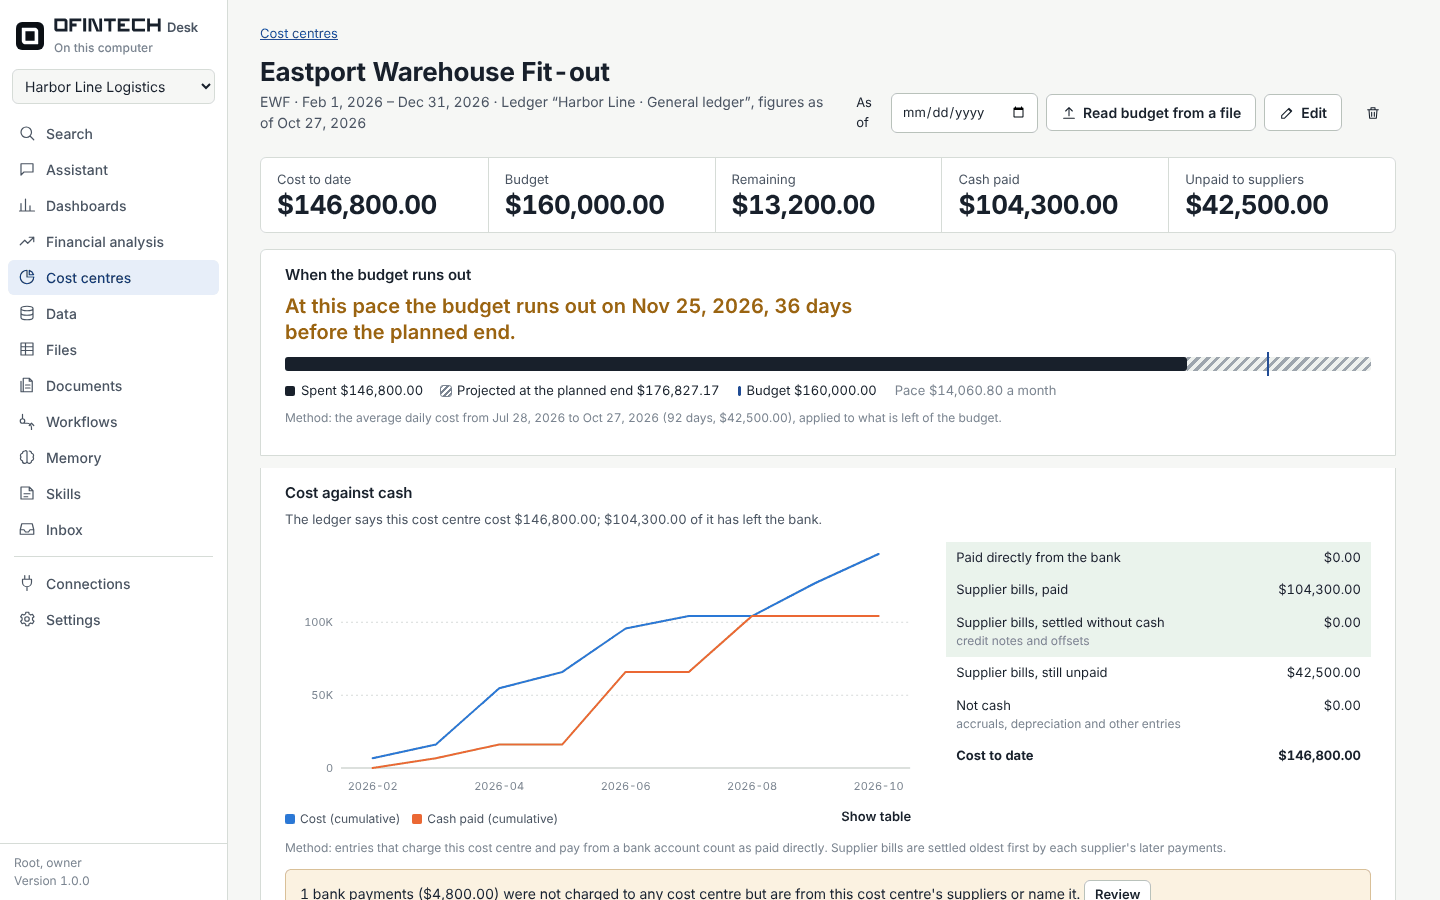
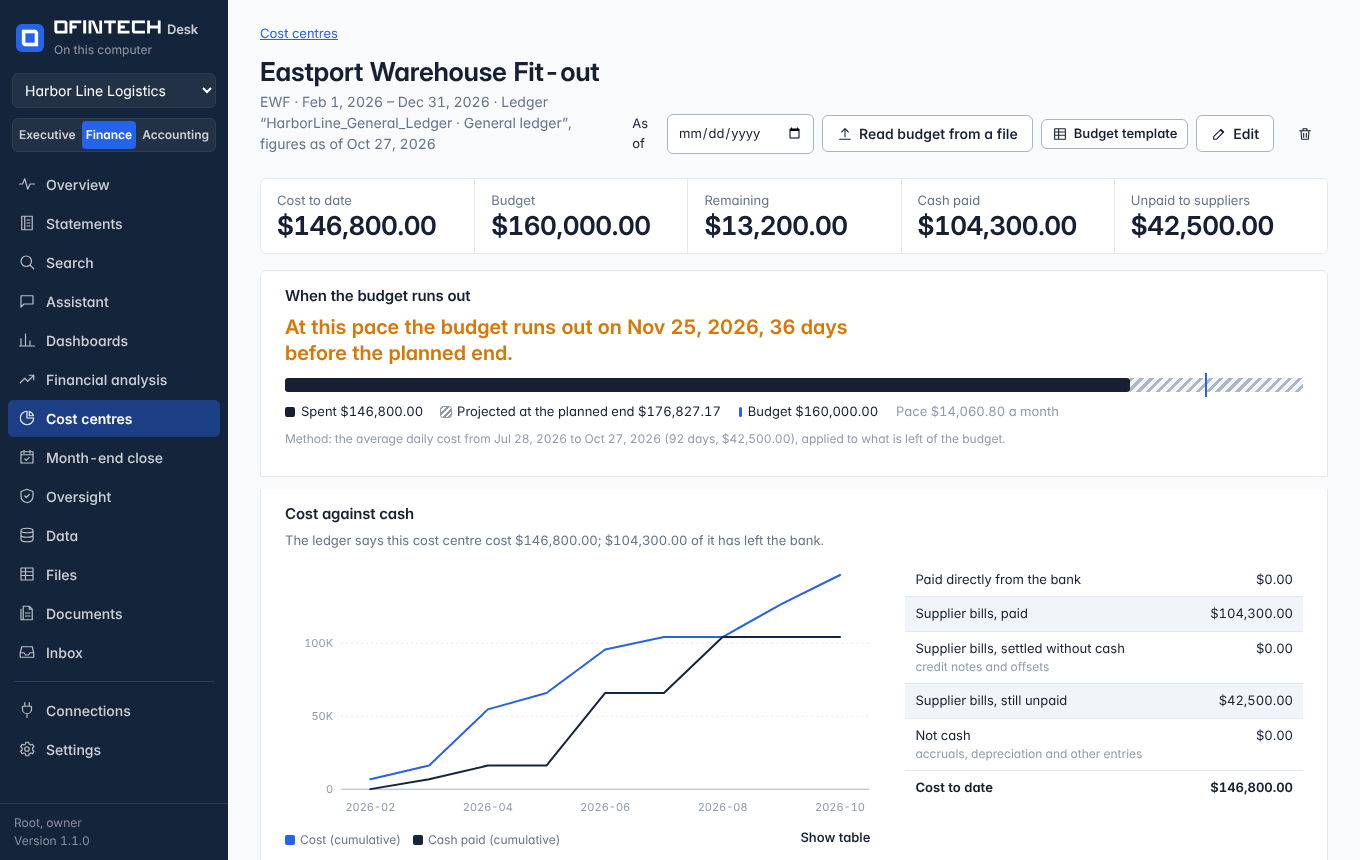
Refresh the website's product screenshots in the OfinTech identity
Every screenshot on ofintech.ai now shows the navy-and-blue interface: the executive overview of Harbor Line
Logistics opens the page (health 78/100, the four figures with their notes, the trend and the cash balance), and
the KPI scorecard, the FY2027 plan, the Eastport Warehouse Fit-out cost centre, October's close with the demo bank
statement, the ledger upload, webhooks and the Arabic workflows page follow. PNGs quantised to 256 colours, 44–68 KB
each; alt text and captions describe what is on them. Checked at 1440 and 390 pixels: nothing scrolls sideways.

diff --git a/landing/site/index.html b/landing/site/index.html
@@ -7,7 +7,7 @@
 <meta name="description" content="OfinTech Desk is an open-source AI workspace for CFOs, accountants and executive managers. 35 KPIs on your targets, forecasts you approve, cost centres from the general ledger, webhooks, and every figure traced to its source. Sign in or create your account.">
 <meta property="og:title" content="OfinTech Desk">
 <meta property="og:description" content="The AI workspace for finance teams. 35 KPIs, forecasts, cost centres, approvals: every figure traced to its source.">
-<meta property="og:image" content="https://ofintech.ai/assets/workbook-evidence.png">
+<meta property="og:image" content="https://ofintech.ai/assets/executive-overview.png">
 <meta property="og:type" content="website">
 <meta property="og:url" content="https://ofintech.ai/">
 <link rel="canonical" href="https://ofintech.ai/">
@@ -168,8 +168,8 @@ footer .cols>div{display:flex;flex-direction:column;gap:8px}
 <p class="small muted">Runs on your own server or computer. Desktop app for macOS, Windows and Linux. English, Arabic, Spanish and French. Bring any model, cloud or local.</p>
 </div>
 <figure style="display:flex;flex-direction:column;gap:12px">
-<img width="1360" height="860" src="assets/workbook-evidence.png" alt="A workbook in OfinTech Desk: selecting the March freight revenue figure shows its source dataset, the underlying row and a reviewer's finding" class="shot">
-<figcaption>Select any figure: its source, the rows behind it and the reviewer's notes appear beside it.</figcaption>
+<img width="1360" height="860" src="assets/executive-overview.png" alt="The executive overview for Harbor Line Logistics, the demo company: financial health 78 out of 100, stable; revenue 197,947.81 up 9.4% on last year; expenses, net profit and cash with a note on each; the twelve-month trend and the cash balance" class="shot">
+<figcaption>The overview answers five questions in plain language. Select any figure to follow it down to the journal entry behind it.</figcaption>
 </figure>
 </section>
 
@@ -338,8 +338,8 @@ footer .cols>div{display:flex;flex-direction:column;gap:8px}
 </ul>
 </div>
 <figure style="display:flex;flex-direction:column;gap:12px">
-<img loading="lazy" width="1360" height="1560" src="assets/month-end-close.png" alt="The month-end close for September: 25% ready, a rent accrual approved, depreciation rejected with a reason, a bank charge proposed, and the bank reconciled to the statement with no unexplained difference" class="shot">
-<figcaption>September's close: an accrual approved, depreciation rejected with its reason, and the bank reconciled to zero.</figcaption>
+<img loading="lazy" width="1360" height="1560" src="assets/month-end-close.png" alt="The month-end close for October at Harbor Line Logistics: 67% ready, every entry balances, the vehicle depreciation charged, two variances to explain and one bank item to review, the bank matched to its statement" class="shot">
+<figcaption>October's close at the demo company: the missing depreciation proposed and approved, two variances waiting for an explanation, the bank matched to its statement.</figcaption>
 </figure>
 </div>
 </section>

diff --git a/CHANGELOG.md b/CHANGELOG.md
@@ -46,7 +46,8 @@ migrations are applied automatically on start-up and are never rewritten once re
   **Inter** (bundled, SIL Open Font License; no font download), Arabic stays in IBM Plex Sans Arabic; financial
   figures use tabular numerals everywhere. Tables lost the green-bar banding for a quiet zebra on the muted surface.
   Dark mode keeps the same palette on navy surfaces. Value provenance badges (actual, forecast, budget, estimate,
-  unverified) are part of the design system.
+  unverified) are part of the design system. The website's product screenshots show the new identity, with the
+  executive overview of the demo company as the opening image.
 
 ### Security (enterprise audit, docs/audit/)
 
